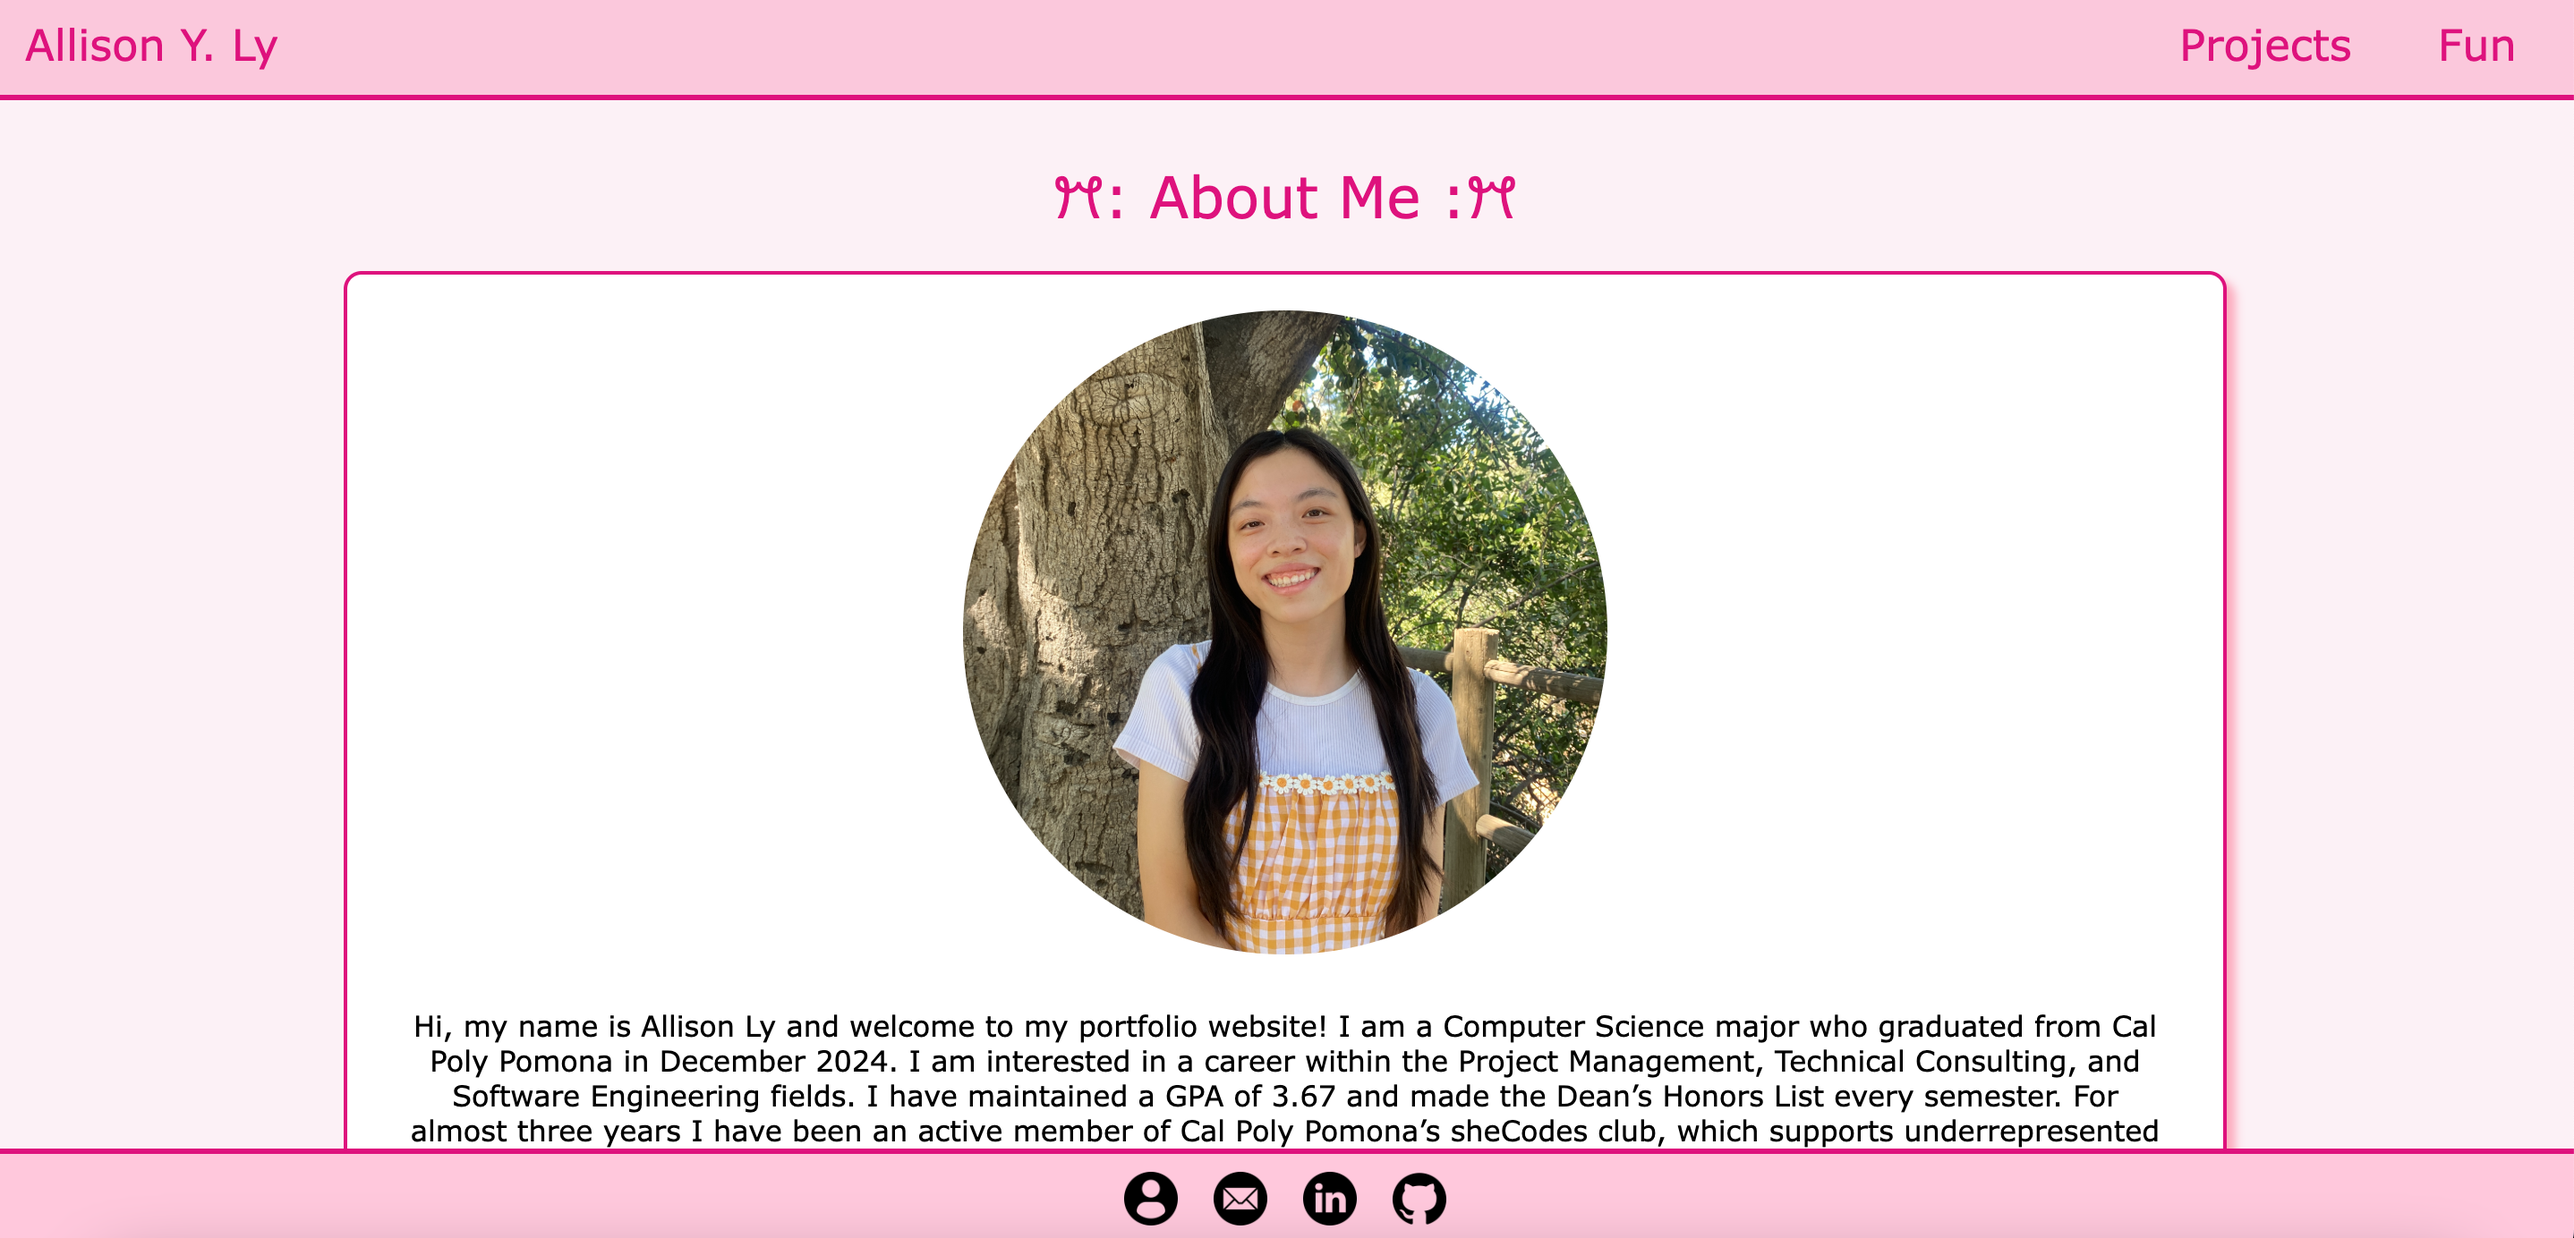
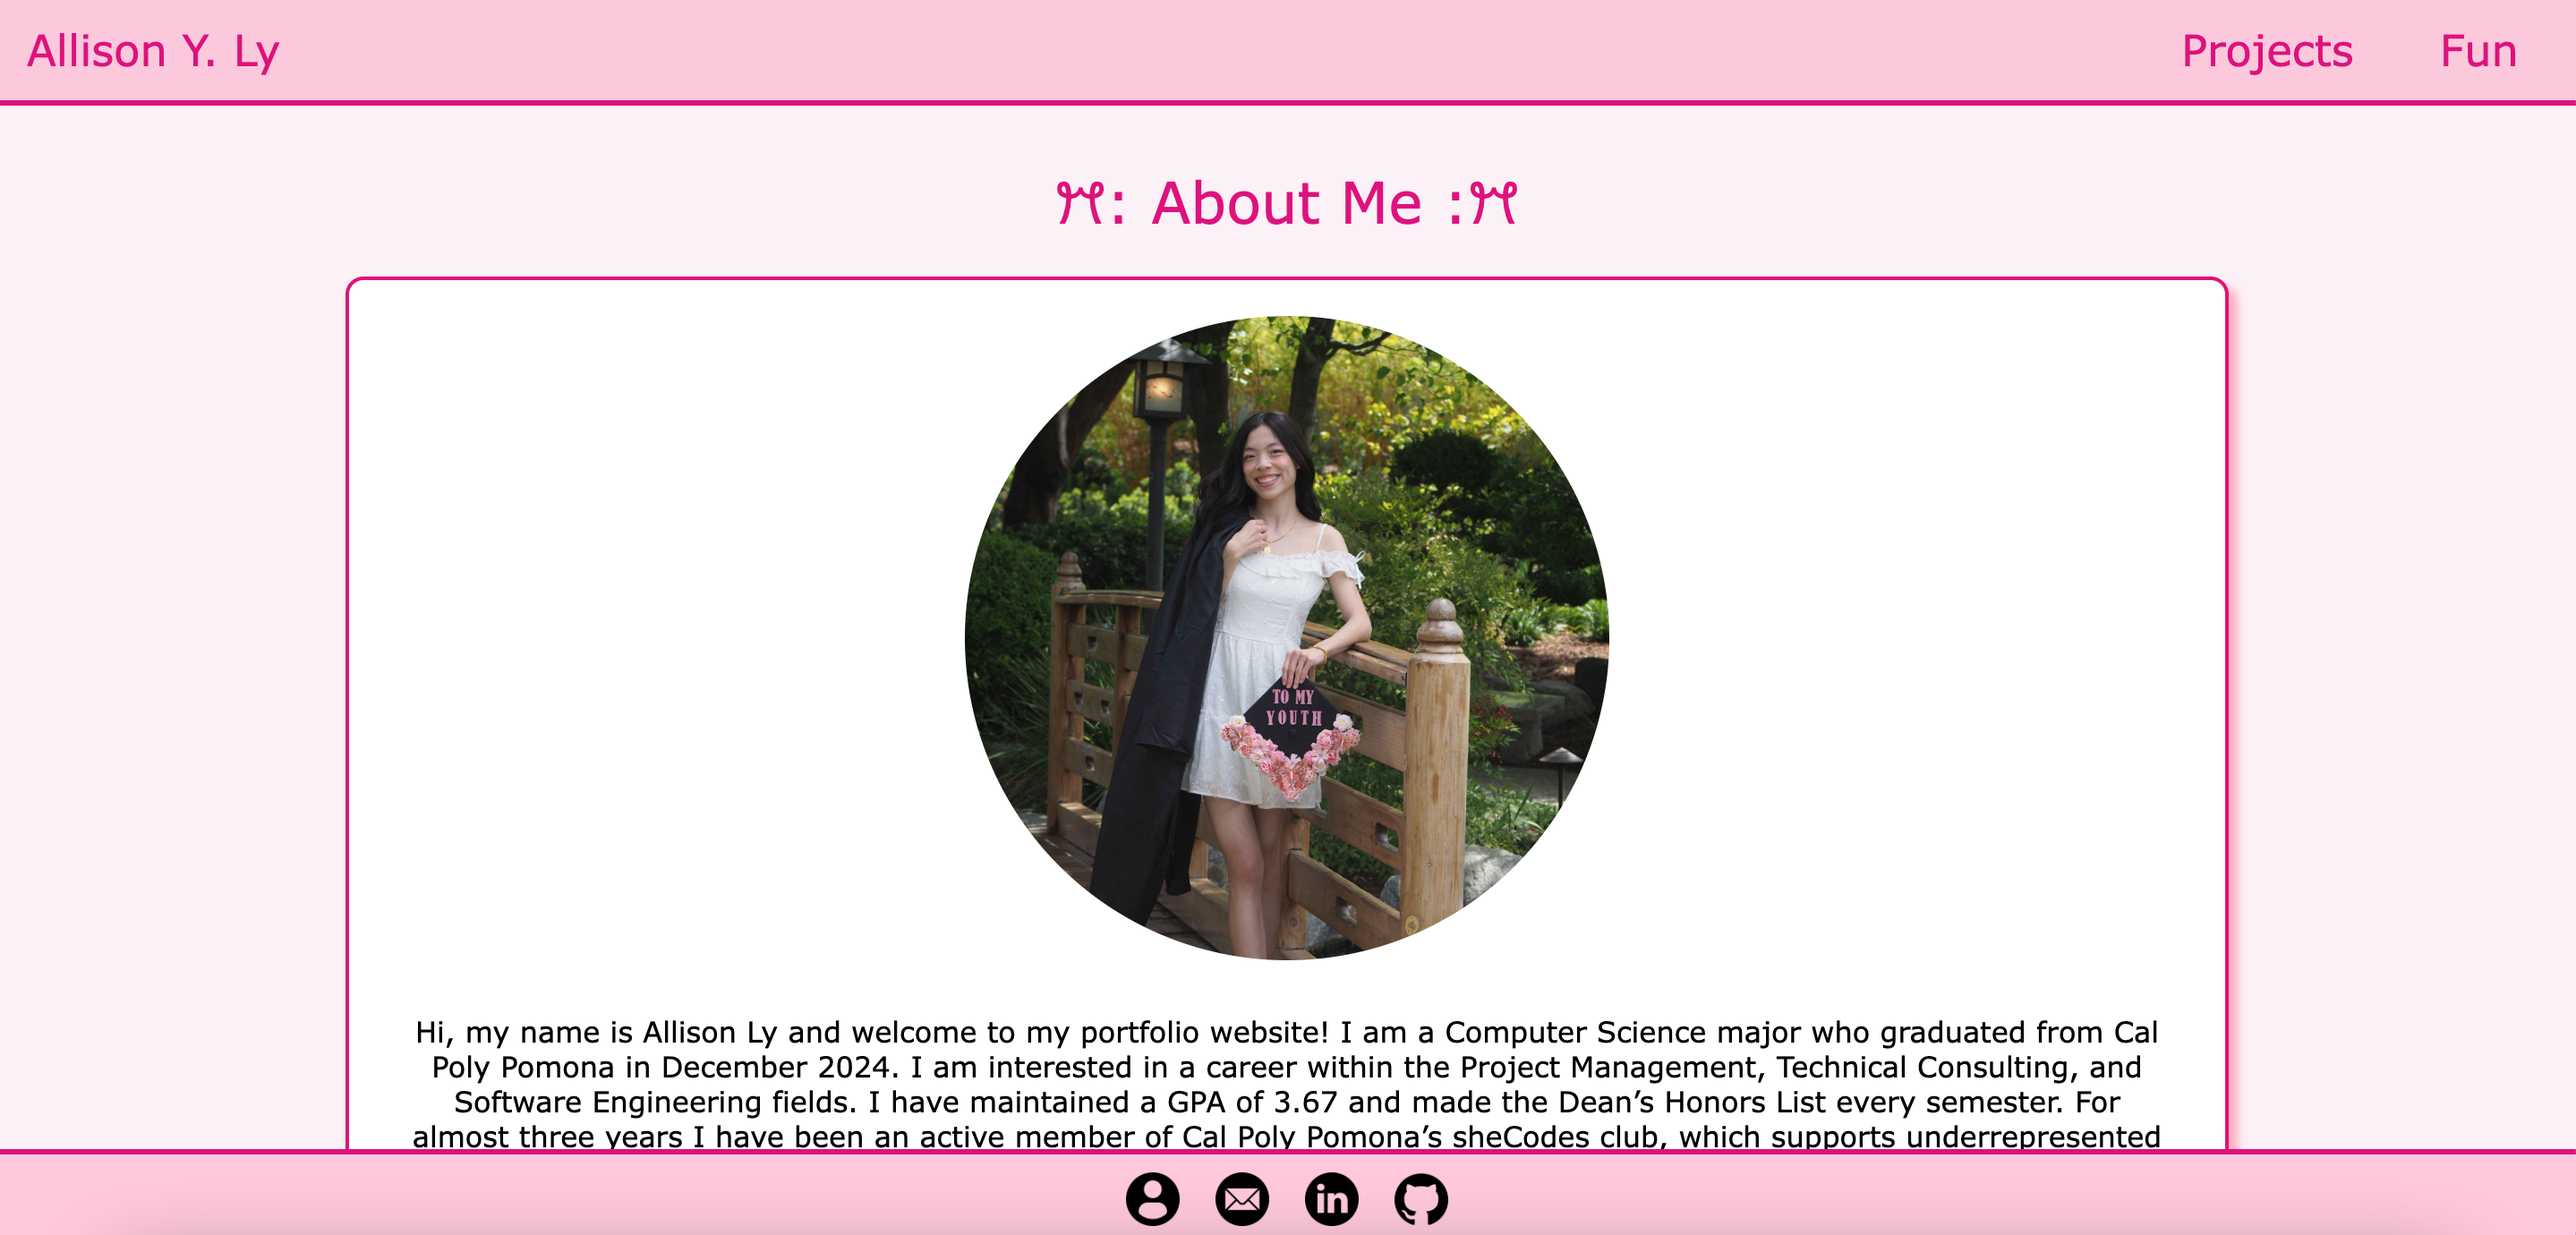
updated photo of myself and portfolio project screenshot

diff --git a/my-portfolio/src/pages/Home.jsx b/my-portfolio/src/pages/Home.jsx
@@ -3,6 +3,7 @@ import Description from "../components/Desc"
 import SeeMore from "../components/SeeMore"
 import '../css/home.css'
 import ally from '../assets/Allison_Ly.png'
+import ally_grad from '../assets/AYLY_grad_pic.jpg'
 import proj1 from "../assets/project_ss/cowcomic_ss.png"
 import proj2 from "../assets/project_ss/restaurant_ss.png"
 import proj3 from "../assets/project_ss/nomnommap_ss.png"
@@ -16,7 +17,7 @@ function Home() {
             <p className="section-title">ꔫ: About Me :ꔫ</p>
             <div id="about-me">
                <div id="pic-and-desc">
-                  <img id="about-me-pic" src={ally} alt="picture of Allison Ly" loading="lazy"/>
+                  <img id="about-me-pic" src={ally_grad} alt="picture of Allison Ly" loading="lazy"/>
                   <p id="about-me-para">
                   Hi, my name is Allison Ly and welcome to my portfolio website! I am a Computer Science major who graduated from Cal Poly Pomona
                   in December 2024. I am interested in a career within the Project Management, Technical Consulting, and Software Engineering fields. 
